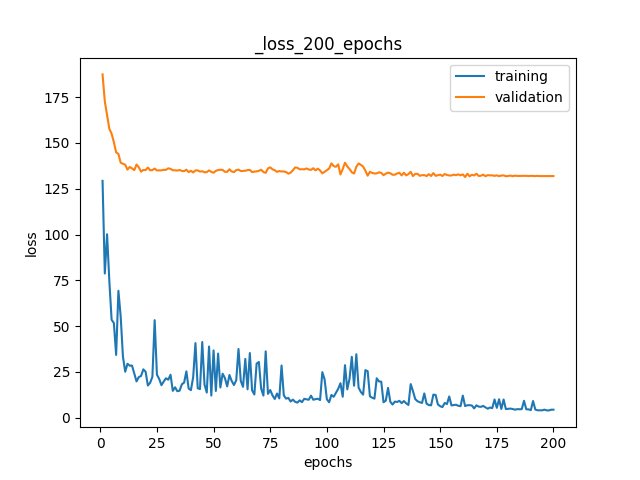
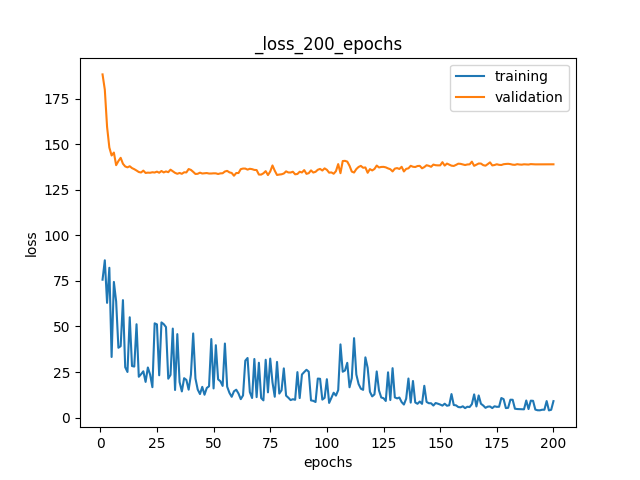
reducing dataset file

diff --git a/reducing_dataset.py b/reducing_dataset.py
@@ -1,0 +1,51 @@
+import os
+import random
+import shutil
+
+def reduce_dataset(dataset_path, output_path, percentage):
+    """
+    Reduce a given dataset by only taking a certain percentage of it
+    """
+    # define the train and test paths
+    train_path = os.path.join(dataset_path, 'train')
+    test_path = os.path.join(dataset_path, 'test')
+    # define the HDR and LDR paths
+    hdr_path = 'HDR'
+    ldr_path = 'LDR'
+
+    # create the output directory if it doesn't exist
+    if not os.path.exists(output_path):
+        os.makedirs(output_path)
+
+    # create the output directories
+    reduced_train_path = os.path.join(output_path, 'train')
+    reduced_test_path = os.path.join(output_path, 'test')
+    os.makedirs(reduced_train_path, exist_ok=True)
+    os.makedirs(reduced_test_path, exist_ok=True)
+    
+
+    def copy_files(input_folder, output_folder):
+        """
+        Copy a percentage of files
+        """
+        files = os.listdir(input_folder)
+        num_files = len(files)
+        num_to_copy = int(num_files * percentage)
+        files_to_copy = random.sample(files, num_to_copy)
+        for file in files_to_copy:
+            shutil.copy2(os.path.join(input_folder, file), output_folder)
+    
+    # reduce the train set
+    copy_files(os.path.join(train_path, hdr_path), os.path.join(reduced_train_path, hdr_path))
+    copy_files(os.path.join(train_path, ldr_path), os.path.join(reduced_train_path, ldr_path))
+    
+    # reduce the test set
+    copy_files(os.path.join(test_path, hdr_path), os.path.join(reduced_test_path, hdr_path))
+    copy_files(os.path.join(test_path, ldr_path), os.path.join(reduced_test_path, ldr_path))
+
+# apply the splitting
+dataset_path = './dataset_final'
+output_path = './dataset_final_reduced'
+percentage_to_keep = 0.03  
+
+reduce_dataset(dataset_path, output_path, percentage_to_keep)

diff --git a/data_loader.py b/data_loader.py
@@ -20,11 +20,11 @@ class HDRDataset(Dataset):
 
         # determine the dataset based on the mode
         if mode == "train":
-            self.dataset_path = os.path.join(f"./dataset_old/clear/train")
+            self.dataset_path = os.path.join(f"./dataset_tiled_part/train")
             #self.dataset_path = os.path.join(f"./dataset_full_images/train")
         else:
             #self.dataset_path = os.path.join(f"./dataset_old/clear/test")
-            self.dataset_path = os.path.join(f"./dataset_full_images/train")
+            self.dataset_path = os.path.join(f"./dataset_tiled_part/test")
 
         # define the paths for the LDR and HDR images
         self.ldr_data_path = os.path.join(self.dataset_path, "LDR")

diff --git a/epce_train_celine_32.py b/epce_train_celine_32.py
@@ -90,7 +90,7 @@ batch_size = 1
 # ======================================
 
 dataset = HDRDataset(mode="train", opt=opt)
-dataset = decrease_data_size(dataset)
+#dataset = decrease_data_size(dataset)
 
 # split dataset into training and validation sets
 train_dataset, val_dataset = train_test_split(dataset, test_size=0.2, random_state=42)
